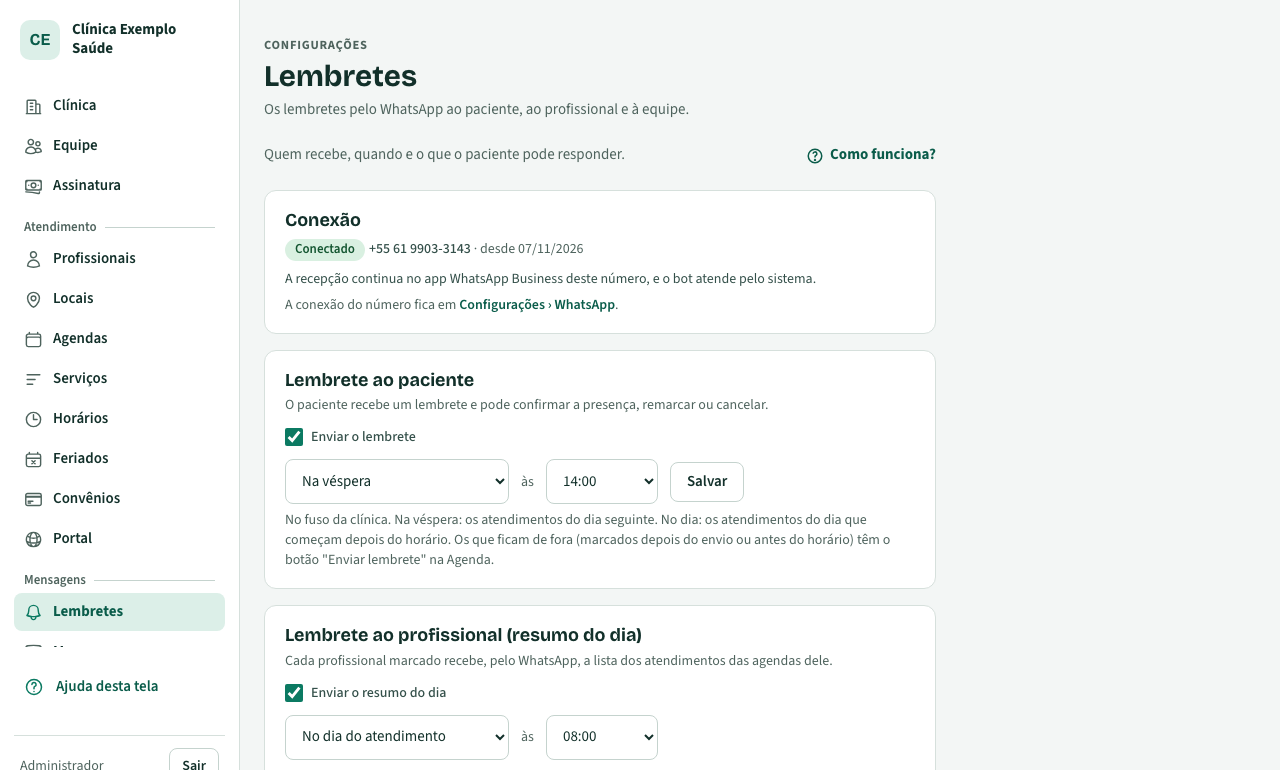
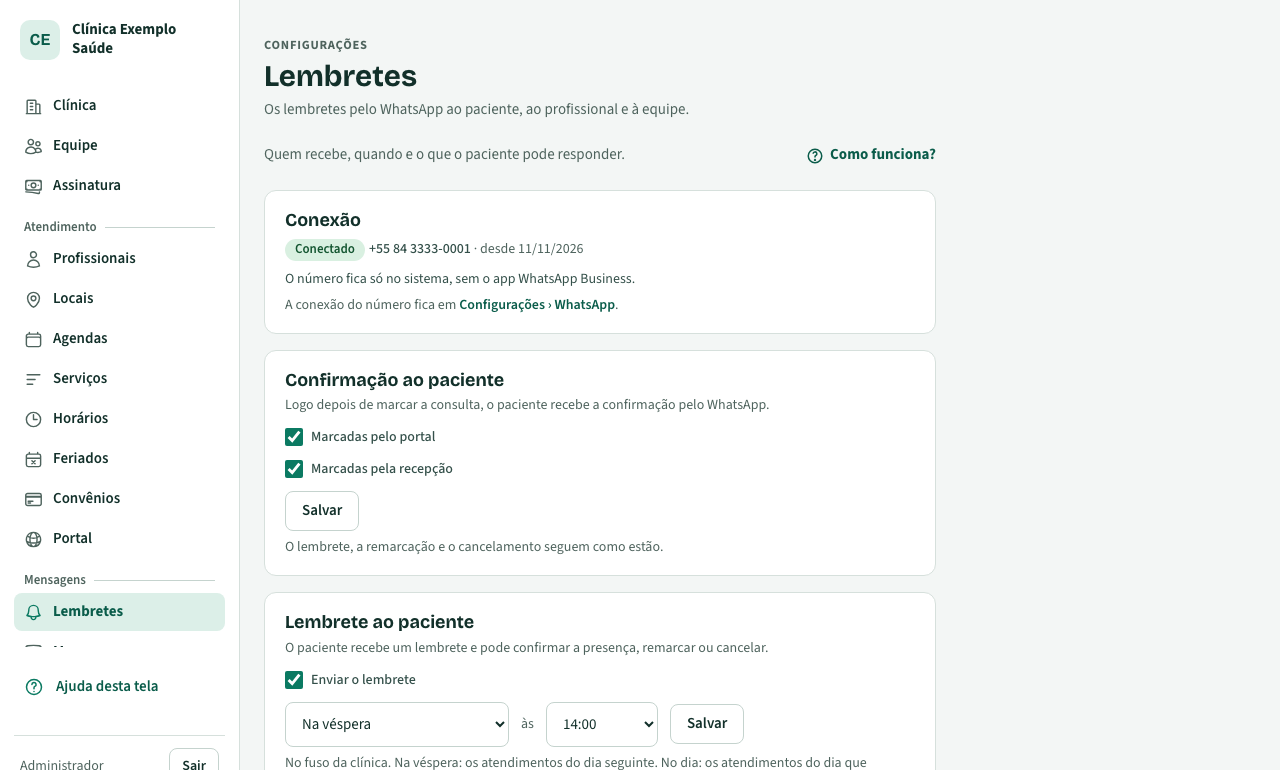
F3f E8: recaptura config-lembretes (Confirmação ao paciente); fila de capturas vazia

diff --git a/docs/capturas-pendentes.md b/docs/capturas-pendentes.md
@@ -9,5 +9,4 @@ a captura e o motivo, avisar o cliente no fim da etapa e esperar a autorização
 
 ## Pendentes
 
-- `config-mensagens` — bot enxuto (F3f): saíram "Link para marcar" e "Cancelamento confirmado"; boas-vindas, recepção e o menu com os textos novos (11/11/2026)
-- `config-lembretes` — novo quadro "Confirmação ao paciente" (Marcadas pelo portal / pela recepção), F3f E6 (11/11/2026)
+(nenhuma)
